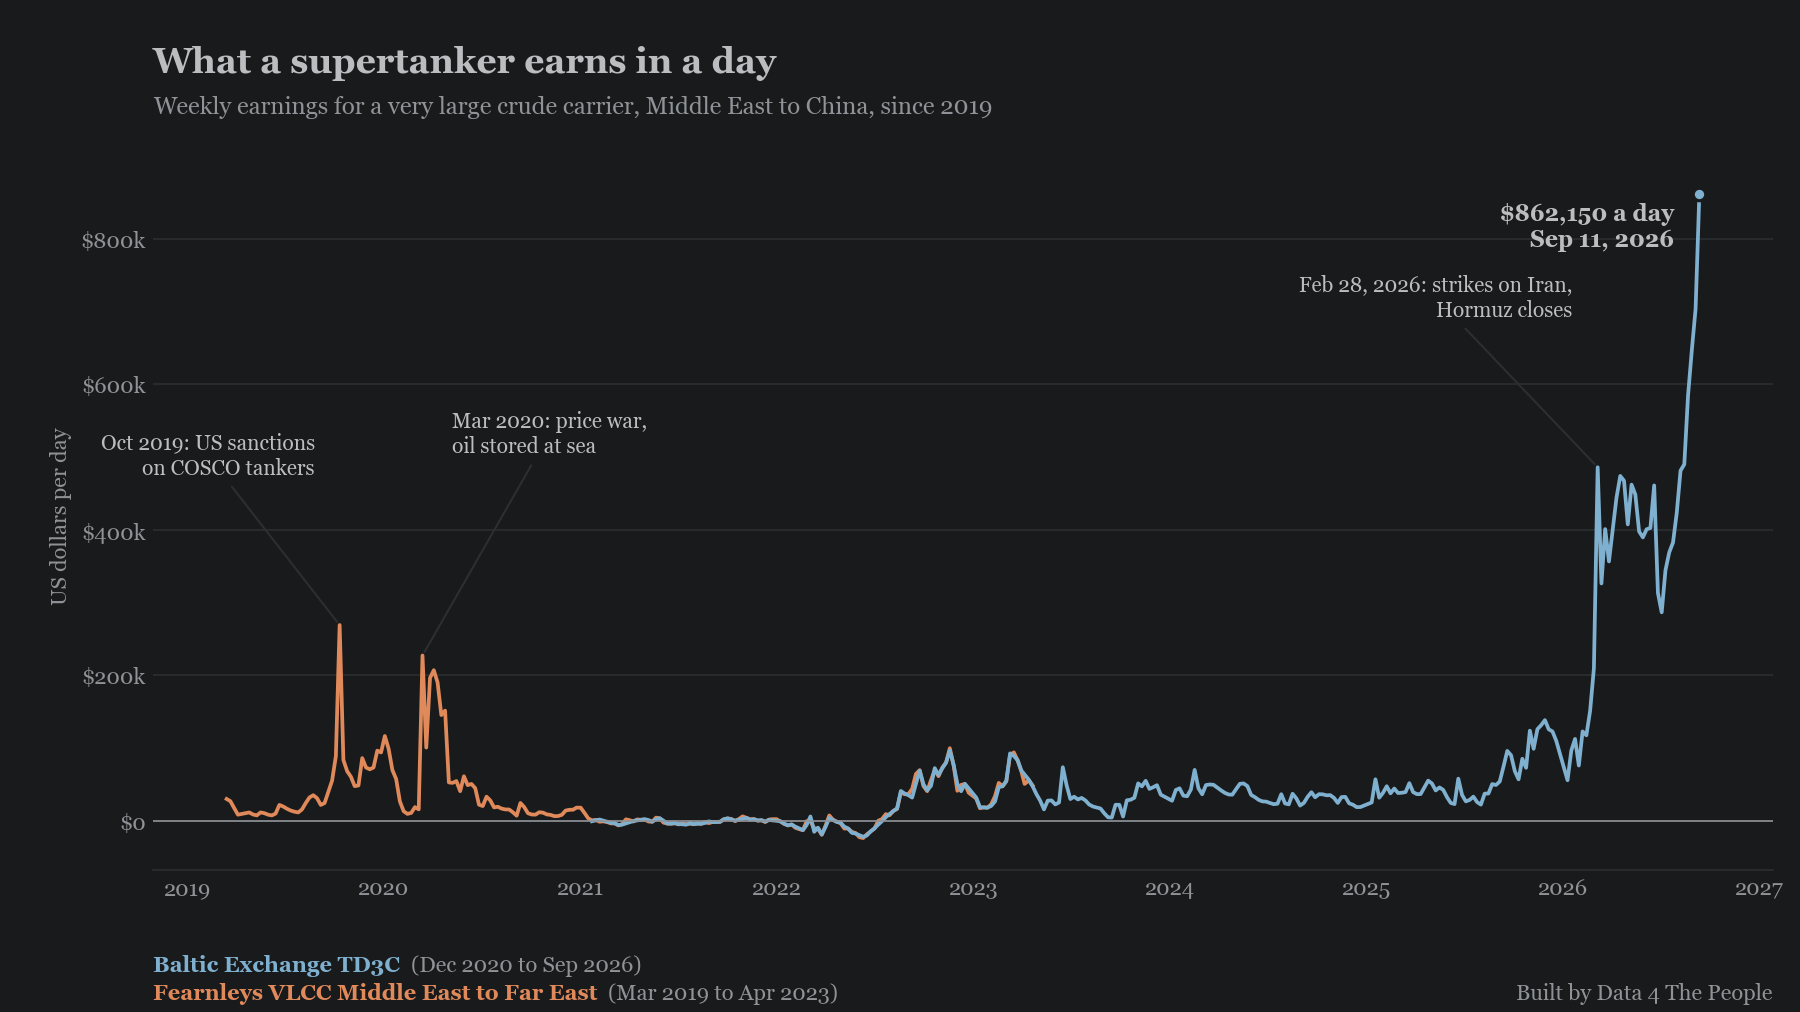
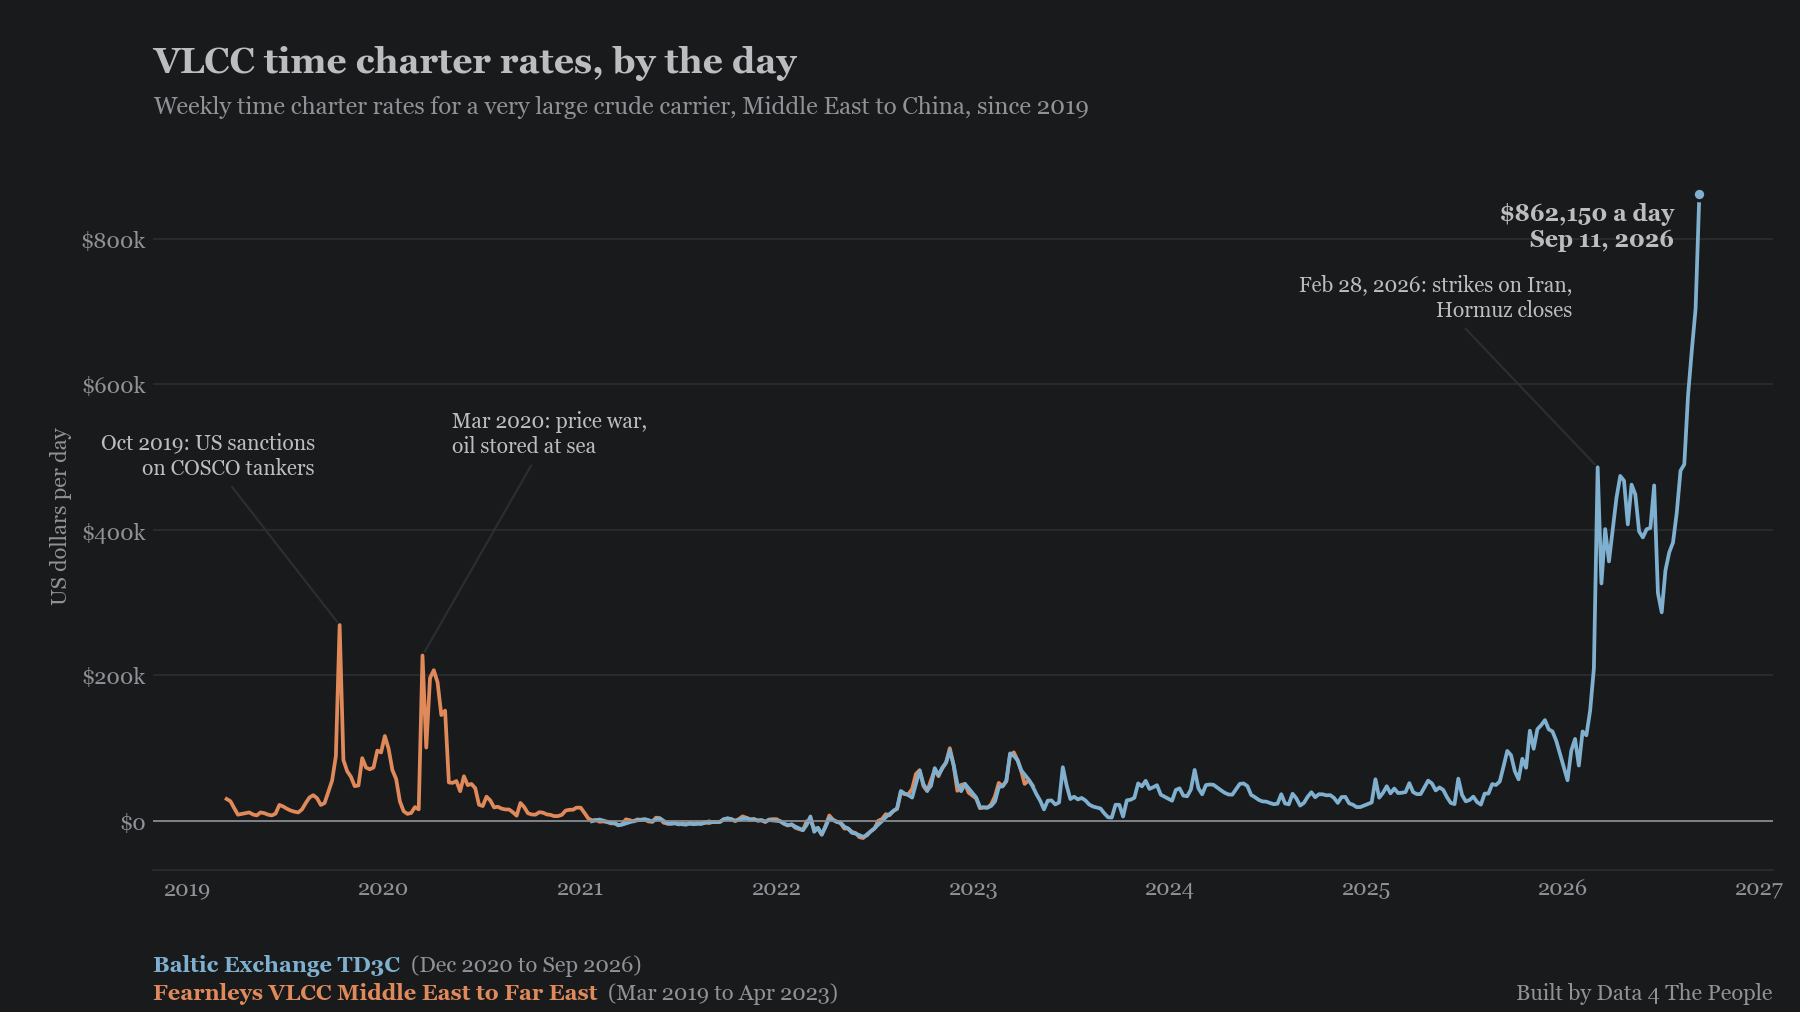
supertanker-rates: time charter rates wording in the post, static chart, and email alt text

Changed region(s): [[0.0933, 0.0306, 0.5911, 0.1225]]

diff --git a/scripts/static_chart.py b/scripts/static_chart.py
@@ -70,8 +70,8 @@ for s in ("top", "right", "left"):
 ax.spines["bottom"].set_color(GRID)
 ax.tick_params(length=0, labelsize=10.5)
 ax.set_ylabel("US dollars per day", fontsize=10.5, color=MUTED)
-fig.text(0.085, 0.955, "What a supertanker earns in a day", fontsize=17, fontweight="bold", color=INK, va="top")
-fig.text(0.085, 0.905, "Weekly earnings for a very large crude carrier, Middle East to China, since 2019",
+fig.text(0.085, 0.955, "VLCC time charter rates, by the day", fontsize=17, fontweight="bold", color=INK, va="top")
+fig.text(0.085, 0.905, "Weekly time charter rates for a very large crude carrier, Middle East to China, since 2019",
          fontsize=11.5, color=MUTED, va="top")
 fb = [p for p in D["fearnleys"]["points"] if p["tce"] is not None]
 def span(p): return f"{date.fromisoformat(p[0]['d']).strftime('%b %Y')} to {date.fromisoformat(p[-1]['d']).strftime('%b %Y')}"

diff --git a/posts/supertanker-rates/POST.md b/posts/supertanker-rates/POST.md
@@ -7,7 +7,7 @@ time: 17:30:00-04:00
 section: Data 4 Thought
 hero: images/supertanker-rates-hero-1680x1080.png
 hero_alt: A supertanker made entirely of polished gold sails across a deep blue ocean in low afternoon sun, seen from above at a three-quarter angle. The long, low hull rides deep in the water, with gold pipework across the deck and a gold bridge and funnel at the stern. Whitecaps break at the bow and a golden reflection spreads across the water beside the hull under a clear sky.
-meta_title: VLCC Rates: What a Supertanker Earns a Day, Updated Weekly
+meta_title: VLCC Time Charter Rates, Updated Weekly
 description: Weekly VLCC supertanker rates since 2019 in one interactive chart, plus what shipping and insurance add to the real cost of a barrel of oil. Updated weekly.
 keywords: VLCC rates, supertanker rates, crude oil shipping rates, history of oil shipping rates, how oil delivery works, oil tanker freight rates, Strait of Hormuz shipping, cost to ship a barrel of oil
 schema_type: article
@@ -42,7 +42,7 @@ But I learned from this experience that we can’t ignore this market. It’s no
 
 Which is why today I have uncovered this data for you. Below, you will see what has happened to VLCC rates since the Iran war started, including the astounding and terrifying rise since the start of July. Rates now sit at $862,150 per day. I don’t even have words to explain how unprecedented this is. Maybe looking at how the prior shocks impacted rates can help. Anything over $200,000 per day used to be considered nosebleed rates. Today's rate is 331% above that mark.
 
-The chart below is a free interactive visualization of weekly VLCC earnings on the Middle East to China route, from March 2019 to today, built from the Baltic Exchange and Fearnleys weekly tanker reports. Hover over any week to read the rate, and tick the box to add the price of Brent crude, physical cargoes against the futures screen. We update it every Friday when the new rate is published.
+The chart below is a free interactive visualization of weekly VLCC time charter rates on the Middle East to China route, from March 2019 to today, built from the Baltic Exchange and Fearnleys weekly tanker reports. Hover over any week to read the rate, and tick the box to add the price of Brent crude, physical cargoes against the futures screen. We update it every Friday when the new rate is published.
 
 <iframe src="https://data4thepeople.github.io/VLCC/dist/index.html" width="100%" height="780" style="border:0" title="VLCC time charter rates, by the day"></iframe>
 

diff --git a/posts/supertanker-rates/EMAIL.md b/posts/supertanker-rates/EMAIL.md
@@ -32,7 +32,7 @@ Which is why I pulled this data for you. Since the Iran war started, the rate to
 `images/01-vlcc-earnings-weekly.png`
 Alt:
 ```
-Line chart of what a supertanker earns per day on the Middle East to China run, weekly from March 2019 to September 2026. Earlier peaks near $270,000 in October 2019 and March 2020 are dwarfed by the 2026 spike, which reaches $862,150 a day on September 11, 2026.
+Line chart of weekly VLCC time charter rates, in dollars per day, on the Middle East to China run, from March 2019 to September 2026. Earlier peaks near $270,000 in October 2019 and March 2020 are dwarfed by the 2026 spike, which reaches $862,150 a day on September 11, 2026.
 ```
 
 ## 5. Body, part two
